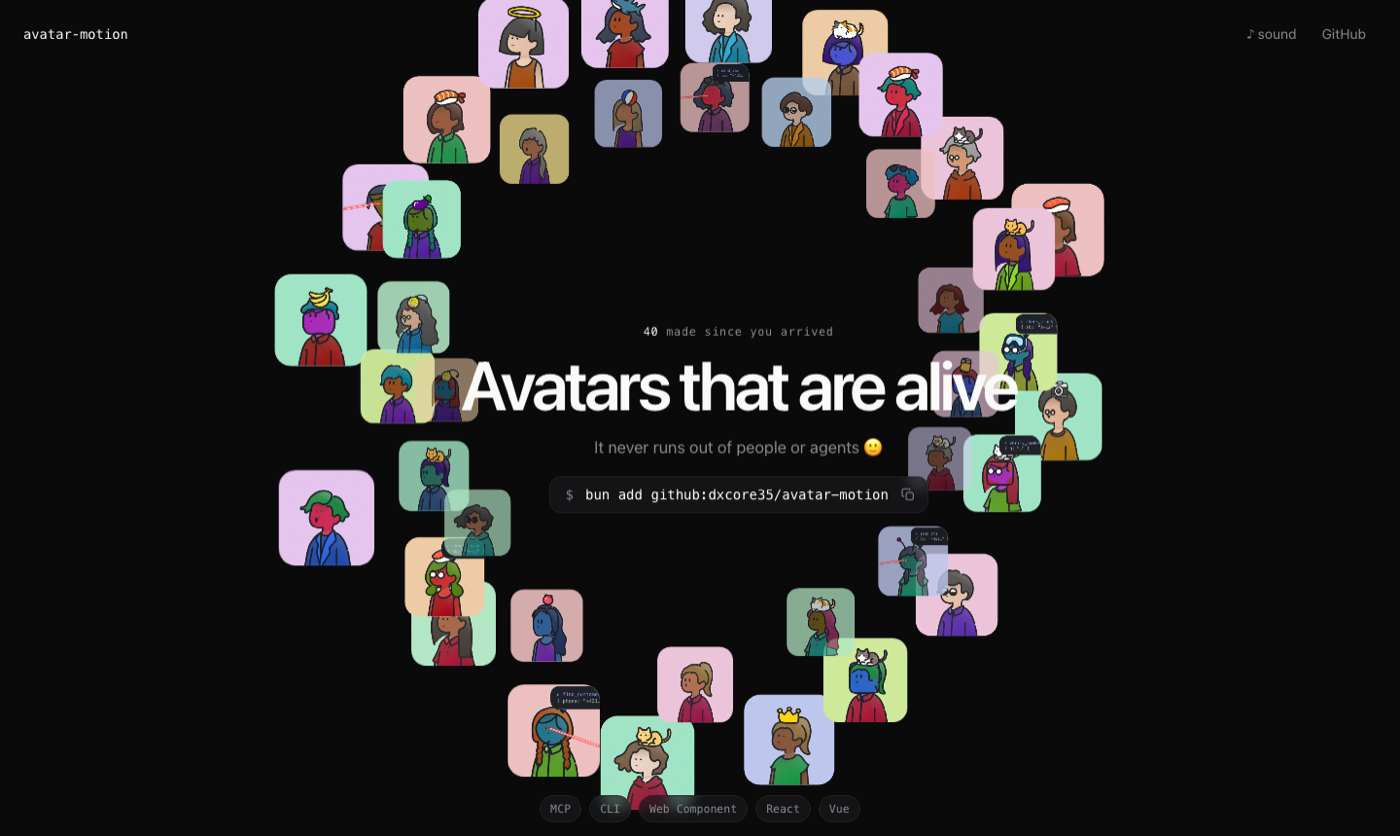
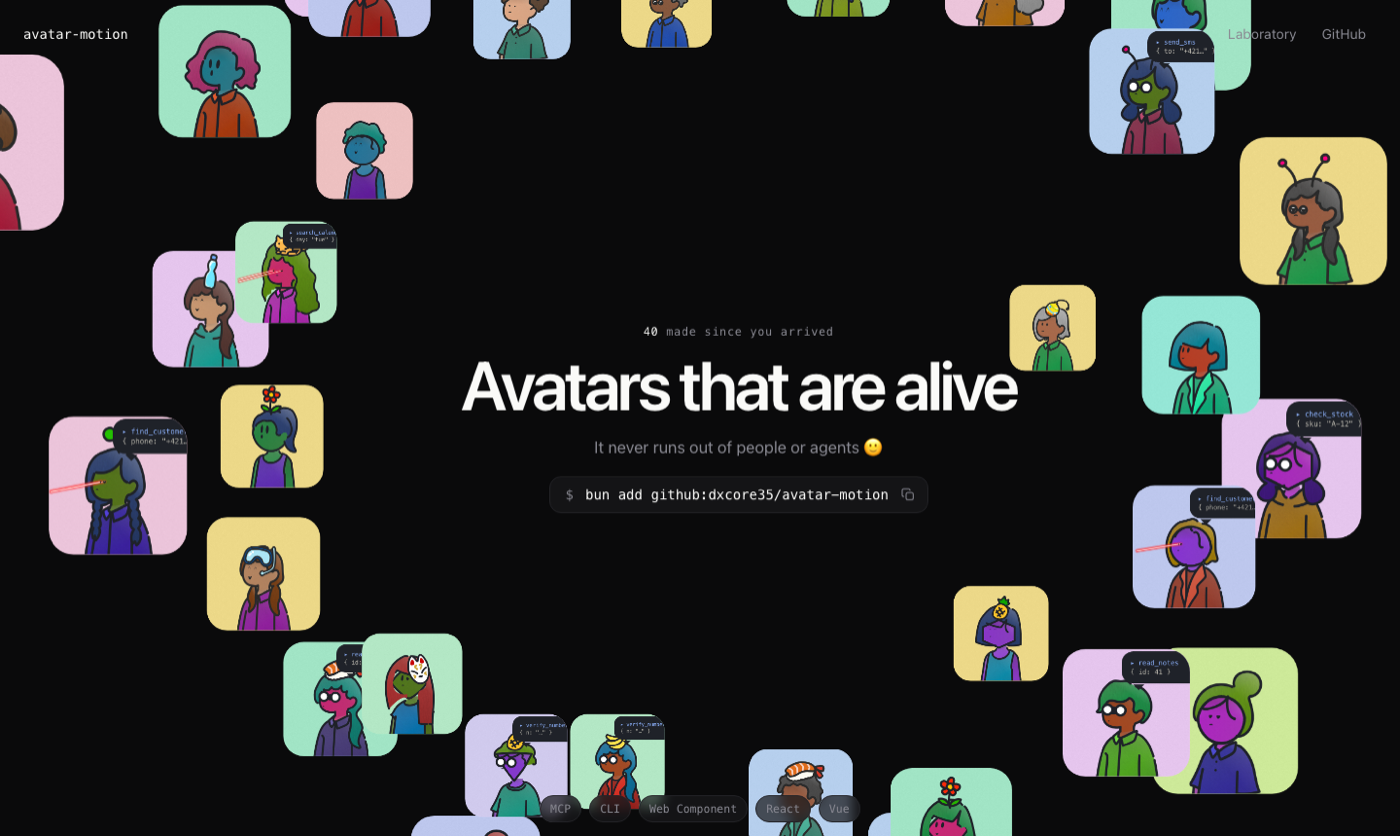
Clean the repo, simplify the docs, add the lab shot, ready Vercel
- docs/lab.png: the workbench in both themes, and tools/shot.sh now takes
  it alongside the other three so it cannot go stale
- README: the file table is gone. It was the source tree written a second
  time, and a second copy of a tree is a thing that drifts. Four sections
  tightened, the lab documented, deploy is one command
- DEPLOY.md led with a Docker runbook for a static folder. It now leads
  with `vercel --prod` and keeps the tunnel path below for hosting the
  files on your own hardware
- vercel.json: cache headers only. The vendored artwork never changes, so
  it is immutable for a year; src/ gets ten minutes
- the two research write-ups move to docs/research/ — they are notes
  behind decisions, not documentation of the thing

diff --git a/README.md b/README.md
@@ -15,17 +15,10 @@ No build step. No dependencies. MIT, all of it.
 The drawn people are **not this project's artwork**. Every head, body, bottom,
 item and pair of glasses comes from
 **[Humation](https://github.com/endo-yusuke/humation)** (MIT), vendored
-unmodified under `vendor/@humation/`. What is added here happens at runtime and
-never edits that art: the drawn-on eyes are cut out, the head is measured as a
-sphere, flat fills are repainted as lit gradients, and texture is added.
-
-The eye motion on that sphere — saccades, blinks, the spring — is a port of a
-public gist by
-[Jérémy Perret](https://gist.github.com/smontlouis/49a4c9303de70118a90dc43badc1aba5)
-(MIT).
-
-Everything else — the icon set, the textures, the states, the shader — is
-original. Full detail in [`NOTICE.md`](NOTICE.md).
+unmodified. The eye motion is ported from a
+[public gist](https://gist.github.com/smontlouis/49a4c9303de70118a90dc43badc1aba5)
+by Jérémy Perret (MIT). Everything added here happens at runtime and never edits
+the art. Full credits: [`NOTICE.md`](NOTICE.md).
 
 ## Install
 
@@ -94,6 +87,14 @@ laser eyes.
 
 ![Three agents mid tool call, each with the call name in a bubble](docs/tool-call.png)
 
+## The lab
+
+`/lab.html` is where you try things: both themes side by side, every state,
+every part, all 41 eye moves, the spring, and an endless crowd. Nothing in it
+is a mock-up — it drives the same element you install.
+
+![The lab: one avatar in dark and light, with every state and part below it](docs/lab.png)
+
 ## CLI
 
 Drive any avatar in an open page from a terminal. Start the bridge, add
@@ -111,9 +112,8 @@ avatar random kind=customer
 avatar options
 ```
 
-`avatar tool.start name=search_calendar`, `avatar parts skull=hexagon`,
-`avatar act.play scan` and `avatar say "text"` work the same way. Every command
-reports what it did, and a wrong value comes back with the legal ones attached.
+`avatar tool.start`, `avatar parts`, `avatar act.play` and `avatar say` work the
+same way. A wrong value comes back with the legal ones attached.
 
 ## MCP — let Claude drive the face
 
@@ -121,10 +121,8 @@ reports what it did, and a wrong value comes back with the legal ones attached.
 claude mcp add avatar -- bun /path/to/avatar-motion/mcp/server.js
 ```
 
-That is the whole setup. Twenty-one tools appear — `avatar_state`,
-`avatar_tool_start`, `avatar_random`, `avatar_parts`, `avatar_options` and the
-rest — generated from the same command list the CLI uses, so the two can never
-drift. Ask Claude to make the receptionist look busy, and it will.
+That is the whole setup. Twenty-one tools appear, generated from the same command
+list the CLI uses. Ask Claude to make the receptionist look busy, and it will.
 
 ## Run it
 
@@ -143,20 +141,22 @@ Starts the bridge on :4332, which is what the CLI and MCP talk to.
 
 ## Deploy
 
-Any static host works; there is no server code. [`DEPLOY.md`](DEPLOY.md) covers
-Docker plus a Cloudflare Tunnel — an outbound-only connection that publishes the
-site over HTTPS without opening a port on your machine.
+There is no server code and no build step, so any static host serves the repo
+as it stands.
 
 ```bash
-docker compose up -d --build
+vercel --prod
 ```
+
+`vercel.json` is already here; it only sets cache headers. Other paths —
+Docker, or a Cloudflare Tunnel that publishes over HTTPS without opening a port
+— are in [`DEPLOY.md`](DEPLOY.md).
 
 ## Speech
 
-The mouth is driven by the audio the agent is actually producing, not by a
-timer. Loudness opens the jaw; the brightness of the sound widens or rounds the
-lips. There is no phoneme model and no language assumption — it works on Slovak
-the same as on English, because it is reading the waveform.
+The mouth is driven by the audio the agent is actually producing, not by a timer.
+Loudness opens the jaw; the brightness of the sound shapes the lips. No phoneme
+model, so it works on Slovak exactly as on English — it reads the waveform.
 
 ```js
 el.send({ type: 'speech.attach', stream })   // a MediaStream, an <audio>, or a node
@@ -170,28 +170,15 @@ separate from drawing, so a slow frame changes nothing about the motion.
 `prefers-reduced-motion` is honoured. The WebGL aura is pooled three deep, and
 any avatar can decline it with `no-aura`.
 
-## Files
+## Where things are
 
-| Path | What |
-|---|---|
-| `index.html` | the landing page |
-| `lab.html` | the lab |
-| `src/avatar-motion.js` | the `<avatar-motion>` element |
-| `src/humation.js` | compose, cut the eyes, measure the sphere, the look pass |
-| `src/engine.js` | the simulation and the draw pass |
-| `src/states.js` | 39 states: pools, cadences, body motion, tool scripts |
-| `src/expressions.js` | parametric eye and mouth rings |
-| `src/motion/` | gaze, body, sphere, eye acts |
-| `src/render/` | textures, shading, icons, emblems, skulls |
-| `src/control.js` | one command set, shared by the page, the CLI and MCP |
-| `src/variation.js` | one definition of "a random avatar" |
-| `src/speech.js` | the mouth, from a waveform |
-| `src/sound.js` | the tap heard when a face is made |
-| `bin/avatar.js` | the CLI |
-| `mcp/server.js` | the MCP server |
-| `tools/bridge.js` | the wire between a process and a page |
-| `tools/shot.sh` | rebuilds the images above |
-| `docs/ENGINE.md` | how the engine works, in full |
+`src/humation.js` composes the drawing, cuts the drawn-on eyes out and measures
+the head as a sphere. `src/engine.js` runs the simulation and the draw pass.
+`src/states.js` holds all 39 states. `src/control.js` is one command set shared
+by the page, the CLI and MCP, so those three can never drift.
+
+`bin/avatar.js` is the CLI, `mcp/server.js` the MCP server, `tools/bridge.js`
+the wire between them and a page.
 
 ## How it works
 

diff --git a/DEPLOY.md b/DEPLOY.md
@@ -1,22 +1,36 @@
-# Deploy Runbook — avatar.dxcore35.eu
+# Deploy
 
-Click-by-click guide to put this site on the home Linux server. Written
-for a non-technical reader — every technical word is explained where it
-first appears.
+This site is plain files — HTML, JavaScript, images. No build step, no server
+code, no database, no environment variables. Anything that can serve a folder
+over HTTP can host it.
 
----
+## Vercel (the live site)
 
-## 1. What you get
+```bash
+vercel --prod
+```
 
-A public web address, `https://avatar.dxcore35.eu`, that anyone can open
-in a browser. The padlock icon (HTTPS, meaning the connection is
-encrypted) works automatically. The server itself has **no open ports** —
-nobody on the internet can reach the machine directly, only through the
-Cloudflare Tunnel set up below. This site has no server-side code (it is
-plain files: HTML, JavaScript, images) and no database, so there is
-nothing else to configure.
+The first run asks which project to link and then remembers it. `vercel.json`
+is in the repo and only sets cache headers: the vendored artwork never changes,
+so it is cached for a year; `src/` is cached for ten minutes.
 
-## 2. One-time Cloudflare Tunnel setup (~10 min, from any browser)
+To make a pull request preview, push a branch — Vercel builds every branch on
+its own URL.
+
+## Anywhere else
+
+Netlify, GitHub Pages, Cloudflare Pages, or an `nginx` that points at the
+checkout. All of them need the same thing: serve `index.html`, `lab.html`,
+`src/`, `vendor/` and `docs/` as static files.
+
+## Your own machine, behind a tunnel
+
+The path below publishes the site from a home server over HTTPS **without
+opening a port** — the machine makes an outbound connection to Cloudflare, and
+Cloudflare accepts the public traffic. Use it when you want the files on
+hardware you own.
+
+### 1. One-time Cloudflare Tunnel setup (~10 min, from any browser)
 
 A **tunnel** is a private, outbound-only connection from the server to
 Cloudflare. The server calls out to Cloudflare and keeps that connection
@@ -45,7 +59,7 @@ server or the home router.
    → **Save**. HTTPS is issued automatically; there is nothing else to
    configure for the certificate.
 
-## 3. On the server: install and start
+### 2. On the server: install and start
 
 A **container** is a small, self-contained package that runs the app the
 same way everywhere, without installing anything else on the machine.
@@ -91,7 +105,7 @@ Build and start everything in the background:
 docker compose up -d --build
 ```
 
-## 4. How to check it worked
+### 3. How to check it worked
 
 List the running containers and confirm both show as healthy/running:
 
@@ -109,7 +123,7 @@ curl -I https://avatar.dxcore35.eu
 Open `https://avatar.dxcore35.eu` in a browser and confirm the page
 loads with a valid padlock.
 
-## 5. How to update after a code change
+### 4. How to update after a code change
 
 ```bash
 git pull && docker compose up -d --build
@@ -117,24 +131,3 @@ git pull && docker compose up -d --build
 
 This pulls the newest files and rebuilds the container in place; the
 tunnel keeps running throughout, so the address never goes down.
-
-## 6. Running it without Docker
-
-This site has no build step and no server-side code — it is only static
-files. Any of the following work, with no code changes:
-
-- **Local preview on your own machine:**
-
-  ```bash
-  bun run dev
-  ```
-
-  (starts `tools/serve.js`, a small local file server included in the
-  repo, for testing before you deploy)
-
-- **Any static file host** — upload the repository (or point the host at
-  it) to Netlify, Vercel, GitHub Pages, or a plain `nginx` install
-  elsewhere. All that's required is that the host serves `index.html`,
-  `lab.html`, `src/`, `vendor/`, and `docs/` as plain files over HTTP —
-  there is no server process, database, or environment variable to
-  configure outside of this Docker/Cloudflare path.
